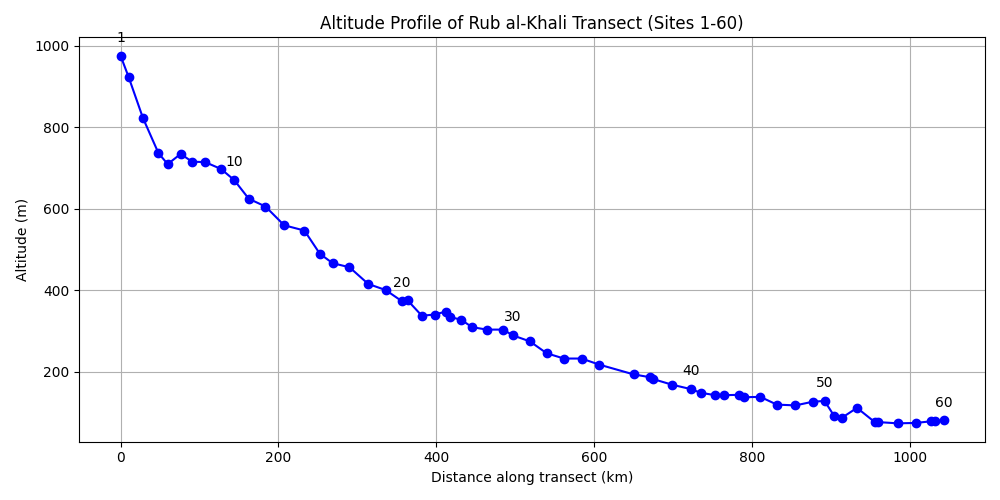
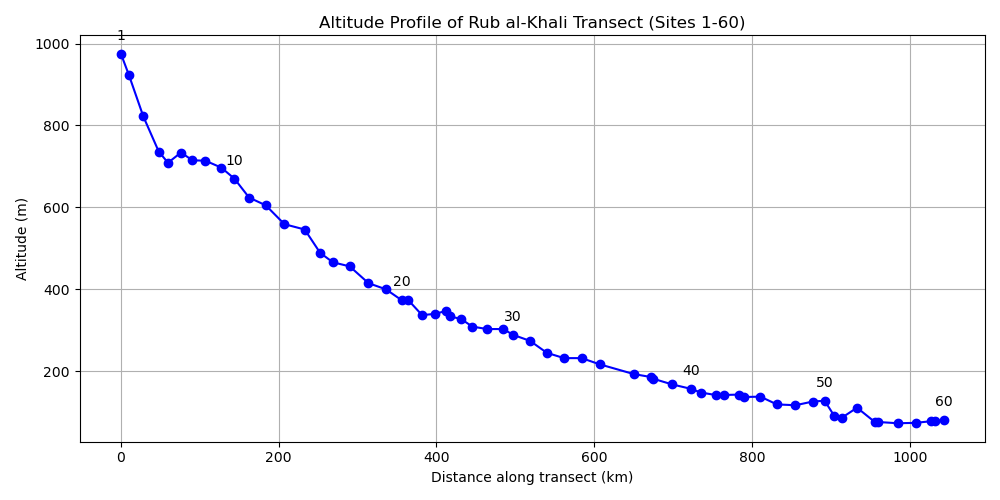
fix(repro): pin transect figure runtime

diff --git a/scripts/analysis/transect_altitude_figure.py b/scripts/analysis/transect_altitude_figure.py
@@ -9,14 +9,36 @@ import hashlib
 import json
 import math
 from pathlib import Path
+import sys
 
 import matplotlib
 
 matplotlib.use("Agg")
 import matplotlib.pyplot as plt  # noqa: E402
+from matplotlib import ft2font  # noqa: E402
 
 
 EXPECTED_SITES = set(range(1, 61))
+EXPECTED_FIGURE_RUNTIME = {
+    "python": "3.11.14",
+    "matplotlib": "3.9.4",
+    "freetype": "2.14.3",
+}
+
+
+def require_figure_runtime() -> dict[str, str]:
+    """Fail before canonical rendering when native font metrics differ."""
+    observed = {
+        "python": sys.version.split()[0],
+        "matplotlib": matplotlib.__version__,
+        "freetype": ft2font.__freetype_version__,
+    }
+    if observed != EXPECTED_FIGURE_RUNTIME:
+        raise RuntimeError(
+            "Figure runtime differs from environment/conda-linux-64.lock: "
+            f"expected {EXPECTED_FIGURE_RUNTIME}, observed {observed}"
+        )
+    return observed
 
 
 def sha256(path: Path) -> str:
@@ -194,6 +216,7 @@ def main() -> int:
 
     input_path = args.input.resolve()
     output_dir = args.output_dir.resolve()
+    figure_runtime = require_figure_runtime()
     output_dir.mkdir(parents=True, exist_ok=True)
     rows = read_profile(input_path)
     profile_path = output_dir / "transect_altitude_profile.tsv"
@@ -224,6 +247,10 @@ def main() -> int:
         "altitude_m": {
             "minimum": min(float(row["altitude_m"]) for row in rows),
             "maximum": max(float(row["altitude_m"]) for row in rows),
+        },
+        "figure_runtime": {
+            "schema_version": "figure-runtime-v1",
+            **figure_runtime,
         },
         "outputs": {
             "figure": {

diff --git a/tests/test_transect_altitude_figure.py b/tests/test_transect_altitude_figure.py
@@ -1,8 +1,10 @@
 from pathlib import Path
 
 import pytest
+import yaml
 
 from scripts.analysis.transect_altitude_figure import (
+    EXPECTED_FIGURE_RUNTIME,
     haversine_km,
     read_profile,
     render,
@@ -12,6 +14,19 @@ from scripts.analysis.transect_altitude_figure import (
 
 ROOT = Path(__file__).resolve().parents[1]
 SOURCE = ROOT / "data/metadata/geodata/site_altitudes.tsv"
+
+
+def test_canonical_figure_runtime_matches_the_exact_recipe() -> None:
+    dependencies = yaml.safe_load(
+        (ROOT / "environment/environment.yml").read_text(encoding="utf-8")
+    )["dependencies"]
+    assert EXPECTED_FIGURE_RUNTIME == {
+        "python": "3.11.14",
+        "matplotlib": "3.9.4",
+        "freetype": "2.14.3",
+    }
+    for component, version in EXPECTED_FIGURE_RUNTIME.items():
+        assert f"{component}={version}" in dependencies
 
 
 def test_canonical_transect_profile_is_complete_and_grounded() -> None:
